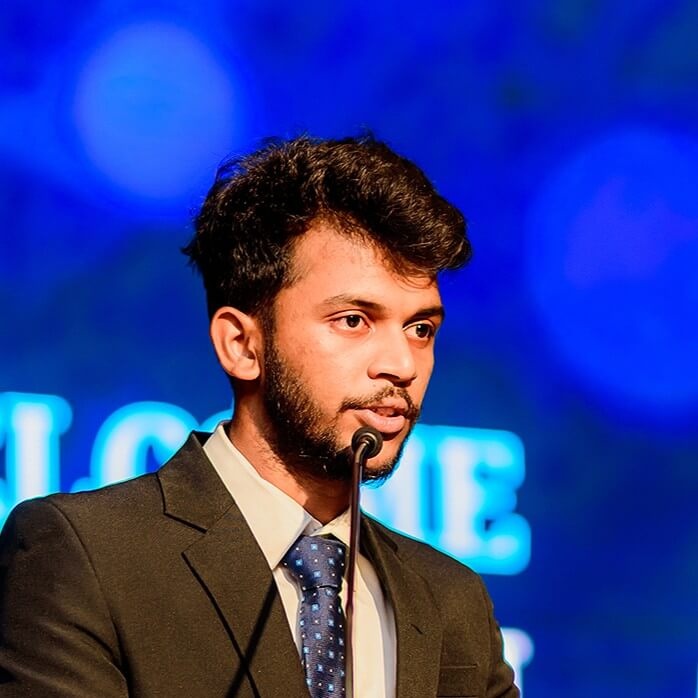
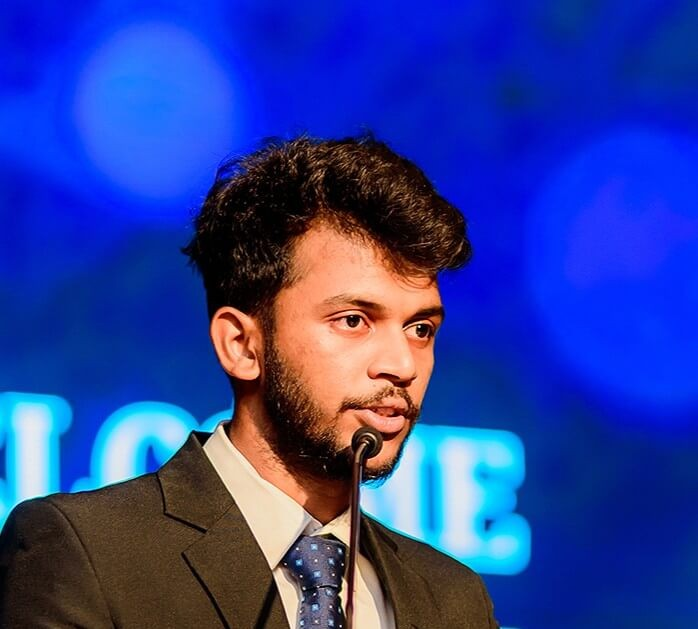
fix: design fine tunes feat: added about section images

diff --git a/app/components/sections/About.tsx b/app/components/sections/About.tsx
@@ -9,57 +9,46 @@ import { PageTitle } from "../shared/PageTitle";
 export const About = () => {
   const aboutImages: { src?: string; className?: string; alt?: string }[] = [
     {
-      src: "/Images/About/img1.jpg",
-      className: "object-cover scale-[1.6] sm:block hidden",
+      src: "/Images/About/about3.jpg",
+      className: "object-cover scale-[1.7] sm:block hidden",
       alt: "About image 1",
     },
     {
-      src: "/Images/About/img2.jpg",
-      className: "object-cover scale-[1.6] sm:block hidden",
+      src: "/Images/About/about5.jpg",
+      className: "object-cover scale-[2] sm:block hidden",
       alt: "About image 2",
     },
     {
-      src: "/Images/About/img3.jpg",
-      className: "object-cover scale-[1.6]",
+      src: "/Images/About/about1.jpg",
+      className: "object-cover scale-[2]",
       alt: "About image 3",
     },
     {
-      src: "/Images/About/img4.jpg",
-      className: "object-cover scale-[1.6]",
+      src: "/Images/About/about4.jpg",
+      className: "object-cover scale-[2]",
       alt: "About image 4",
     },
     {
-      src: "/Images/About/img1.jpg",
-      className: "object-cover [transform:scaleX(-1)_scale(1.6)]",
-      alt: "About image 1",
-    },
-    {
-      src: "/Images/About/img2.jpg",
-      className: "object-cover [transform:scaleX(-1)_scale(1.6)]",
+      src: "/Images/About/about6.jpg",
+      className: "object-cover [transform:scaleX(-1)_scale(1.5)]",
       alt: "About image 2",
     },
     {
-      src: "/Images/About/img3.jpg",
-      className:
-        "object-cover [transform:scaleX(-1)_scale(1.6)] sm:block hidden",
-      alt: "About image 3",
+      src: "/Images/About/about8.jpg",
+      className: "object-cover [transform:scaleX(1)_scale(1.75)]",
+      alt: "About image 4",
     },
+
     {
-      src: "/Images/About/img4.jpg",
+      src: "/Images/About/about7.jpg",
       className:
-        "object-cover [transform:scaleX(-1)_scale(1.6)] sm:block hidden",
+        "object-cover [transform:scaleX(-1)_scale(2.1)] sm:block hidden",
       alt: "About image 4",
     },
     {
-      src: "/Images/About/img4.jpg",
+      src: "/Images/About/about2.jpg",
       className:
-        "object-cover [transform:scaleX(-1)_scale(1.6)] sm:block hidden",
-      alt: "About image 4",
-    },
-    {
-      src: "/Images/About/img4.jpg",
-      className:
-        "object-cover [transform:scaleX(-1)_scale(1.6)] sm:block hidden",
+        "object-cover [transform:scaleX(-1)_scale(1.7)] sm:block hidden",
       alt: "About image 4",
     },
   ];
@@ -78,7 +67,7 @@ export const About = () => {
               initial={{ opacity: 0, filter: "blur(8px)" }}
               animate={{ opacity: 1, filter: "blur(0px)" }}
               transition={{ duration: 0.3, ease: "easeOut", delay: 0.15 }}
-              className="text-[#afafaf] font-[Poppins] sm:text-[16px] text-[12px] not-italic font-medium sm:leading-[23px] leading-4 sm:w-[274px] w-[200px]"
+              className="text-[#afafaf] font-[Poppins] sm:text-[14px] text-[12px] not-italic font-medium sm:leading-[23px] leading-4 sm:w-[274px] w-[200px]"
             >
               NextGen Tech, Today’s Chapter - CSSL Genz UCSC
             </motion.p>
@@ -86,7 +75,7 @@ export const About = () => {
               initial={{ opacity: 0, filter: "blur(8px)" }}
               animate={{ opacity: 1, filter: "blur(0px)" }}
               transition={{ duration: 0.3, ease: "easeOut", delay: 0.25 }}
-              className="text-[#afafaf] font-[Poppins] sm:text-[16px] text-[12px] not-italic font-medium sm:leading-[23px] leading-4 sm:w-[274px] w-[200px]"
+              className="text-[#afafaf] font-[Poppins] sm:text-[14px] text-[12px] not-italic font-medium sm:leading-[23px] leading-4 sm:w-[274px] w-[200px]"
             >
               CSSL GenZ - UCSC Chapter is the official representation of the
               Computer Society of Sri Lanka at the University of Colombo School
@@ -96,7 +85,7 @@ export const About = () => {
               initial={{ opacity: 0, filter: "blur(8px)" }}
               animate={{ opacity: 1, filter: "blur(0px)" }}
               transition={{ duration: 0.3, ease: "easeOut", delay: 0.35 }}
-              className="text-[#afafaf] font-[Poppins] text-[16px] not-italic font-medium leading-[23px] sm:w-[274px] w-[200px] sm:block hidden"
+              className="text-[#afafaf] font-[Poppins] text-[14px] not-italic font-medium leading-[23px] sm:w-[274px] w-[200px] sm:block hidden"
             >
               We strive to empower undergraduates through technology,
               innovation, and collaboration bridging the gap between academia
@@ -141,6 +130,8 @@ export const About = () => {
                       } transition-all duration-200 ${img.className ?? ""}`}
                       sizes="(max-width: 640px) 50vw, 150px"
                       priority={i < 2}
+                      loading="eager"
+                      draggable={false}
                     />
                   </motion.div>
                 ) : null}

diff --git a/app/components/sections/OurTeam.tsx b/app/components/sections/OurTeam.tsx
@@ -22,7 +22,7 @@ export const OurTeam = () => {
               initial={{ opacity: 0, filter: "blur(8px)" }}
               animate={{ opacity: 1, filter: "blur(0px)" }}
               transition={{ duration: 0.3, ease: "easeOut", delay: 0.15 }}
-              className="text-[#afafaf] font-[Poppins] sm:text-[16px] text-[12px] not-italic font-medium sm:leading-[23px] leading-4 sm:w-[274px] w-[200px]"
+              className="text-[#afafaf] font-[Poppins] sm:text-[14px] text-[12px] not-italic font-medium sm:leading-[23px] leading-4 sm:w-[274px] w-[200px]"
             >
               The CSSL GenZ Chapter thrives through collaboration
             </motion.p>
@@ -30,7 +30,7 @@ export const OurTeam = () => {
               initial={{ opacity: 0, filter: "blur(8px)" }}
               animate={{ opacity: 1, filter: "blur(0px)" }}
               transition={{ duration: 0.3, ease: "easeOut", delay: 0.25 }}
-              className="text-[#afafaf] font-[Poppins] sm:text-[16px] text-[12px] not-italic font-medium sm:leading-[23px] leading-4 sm:w-[274px] w-[200px] mt-20 sm:mt-0"
+              className="text-[#afafaf] font-[Poppins] sm:text-[14px] text-[12px] not-italic font-medium sm:leading-[23px] leading-4 sm:w-[274px] w-[200px] mt-20 sm:mt-0"
             >
               A collective of students who bring ideas to life across event
               planning, design, media, and innovation
@@ -39,7 +39,7 @@ export const OurTeam = () => {
               initial={{ opacity: 0, filter: "blur(8px)" }}
               animate={{ opacity: 1, filter: "blur(0px)" }}
               transition={{ duration: 0.3, ease: "easeOut", delay: 0.35 }}
-              className="text-[#afafaf] font-[Poppins] text-[16px] not-italic font-medium leading-[23px] sm:w-[274px] w-[200px] sm:block hidden"
+              className="text-[#afafaf] font-[Poppins] text-[14px] not-italic font-medium leading-[23px] sm:w-[274px] w-[200px] sm:block hidden"
             >
               We strive to empower undergraduates through technology,
               innovation, and collaboration bridging the gap between academia

diff --git a/app/components/sections/WorkImage.tsx b/app/components/sections/WorkImage.tsx
@@ -40,11 +40,12 @@ export const WorkImage = ({
         src={src}
         alt={alt}
         fill
-        className={`object-cover transition-all duration-200 ${brightness} ${
+        className={`object-cover select-none  transition-all duration-200 ${brightness} ${
           isGrayscale ? (isHovered ? "grayscale-0" : "grayscale") : ""
         } ${imageClassName}`}
         sizes={sizes}
         priority={priority}
+        draggable={false}
       />
       {hasBlueFilter && (
         <div

diff --git a/app/components/elements/MemberCard.tsx b/app/components/elements/MemberCard.tsx
@@ -65,6 +65,7 @@ export const MemberCardItem = ({ member }: { member: MemberCardProps }) => {
                 className={`object-cover absolute inset-0 ${member.className || ""} `}
                 sizes="(max-width: 768px) 100vw, (max-width: 1200px) 50vw, 25vw"
                 loading="lazy"
+                draggable={false}
               />
             </motion.div>
           ) : null}
